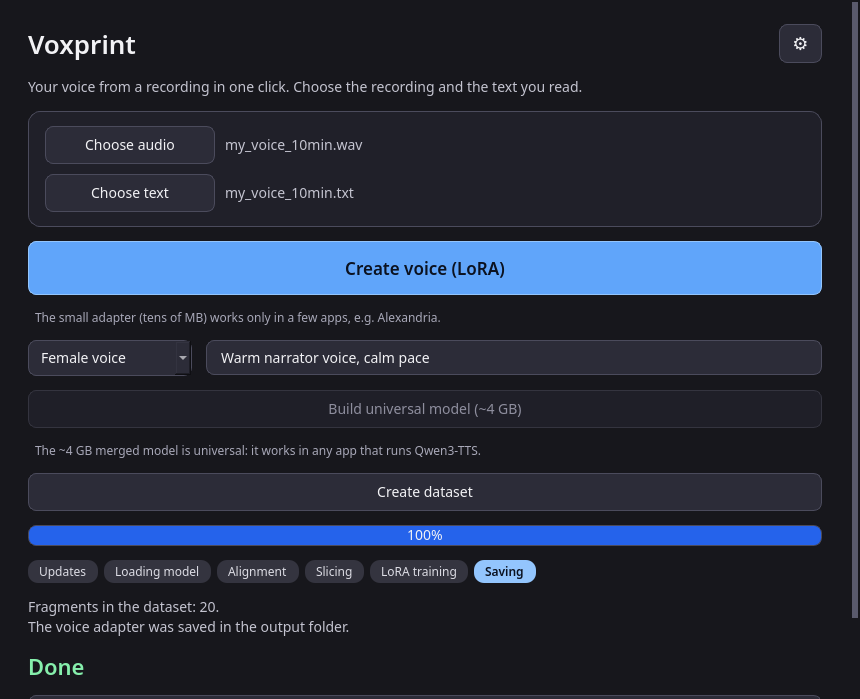
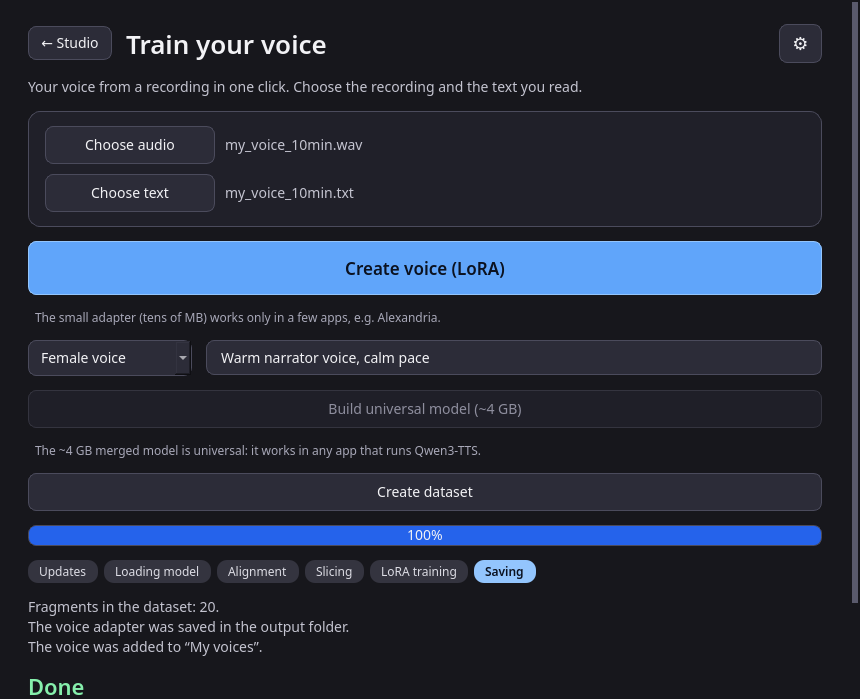
Docs and screenshots: Studio, voice library, narrator, formats, AAC notice and flag; regenerated screenshots (en/ru/de)

Changed region(s): [[0.0302, 0.9013, 0.9674, 1.0], [0.0302, 0.03, 0.393, 0.0901]]

diff --git a/README.md b/README.md
@@ -1,11 +1,14 @@
-# Voxprint
+# Voxprint AI Audiobook Builder
 
-**Your voice from a recording in one click.** Give Voxprint a 5-15 minute recording of your own voice and the text you read:
-it aligns the text to the audio, cuts a training dataset, trains your voice as a LoRA adapter for
-[Qwen3-TTS](https://github.com/QwenLM/Qwen3-TTS) and, if you want, merges it into a standalone model that works in any
-app that runs Qwen3-TTS. A native Windows 11 window - no command line, no browser, no Gradio, no WSL.
+*Train a voice, narrate books.* (Short name and technical identifier: **Voxprint** - the package, the executable and the data folder keep that name.)
 
-<p align="center"><img src="docs/screenshots/main_files_chosen.png" alt="Voxprint main window" width="720"></p>
+**Your voice from a recording in one click - and then whole books in that voice.** Give Voxprint a 5-15 minute recording of your own voice and
+the text you read: it aligns the text to the audio, cuts a training dataset and trains your voice as a LoRA adapter for
+[Qwen3-TTS](https://github.com/QwenLM/Qwen3-TTS) (optionally merged into a standalone model for any app that runs Qwen3-TTS).
+The voice goes into your **voice library**; then pick a book (TXT, FB2, EPUB) and a voice and get a finished audiobook with chapters
+(one Opus file, per-chapter MP3, ...). A native Windows 11 application - no command line, no browser, no Gradio, no WSL.
+
+<p align="center"><img src="docs/screenshots/studio_home.png" alt="Voxprint Studio" width="560"></p>
 
 > **Requires Windows 11 (24H2 / build 26100 or newer) and an NVIDIA GPU (16 GB VRAM recommended).**
 > Without an NVIDIA GPU the dataset is still created, but voice training falls back to the CPU (very slow, with a warning).
@@ -17,7 +20,8 @@ app that runs Qwen3-TTS. A native Windows 11 window - no command line, no browse
 
 ## Contents
 [Concept](#concept-and-philosophy) · [Features](#features) · [Screenshots](#screenshots) · [Installation](#installation) ·
-[Using Voxprint](#using-voxprint) · [How it works](#how-it-works) · [Output format](#output-format) ·
+[Using Voxprint](#using-voxprint) · [Narrate a book](#narrate-a-book) · [My voices](#my-voices-and-licences) · [AAC / M4B notice](#aac--m4b-patents-please-read) ·
+[How it works](#how-it-works) · [Output format](#output-format) ·
 [Hardware requirements](#hardware-requirements) · [Model reuse](#reusing-what-is-already-on-your-computer) ·
 [Tested on Windows](#tested-on-windows) · [Privacy](#privacy) · [Roadmap](#roadmap) · [Contributing](#contributing) ·
 [Licences](#licences-and-third-party-components)
@@ -37,6 +41,14 @@ voice recording and a text file to ready output files you can load into a neural
 * **Windows first**, other platforms later. Built jointly by a human and an AI - an honest attempt.
 
 ## Features
+* **Studio** - the first window: three big cards (*Narrate a book*, *Train your voice*, *My voices*) and a gear button for Settings. Every other window has a *← Studio* button.
+* **Narrate a book** - TXT / FB2 (also `.fb2.zip`) / EPUB parsing with chapters (pure standard library), sentence-sized chunks, synthesis
+  chunk by chunk with your voice (Qwen3-TTS + LoRA adapter), progress and time left, **pause / cancel / resume** (finished chunks are kept on disk).
+* **Audiobook formats** - default: **one `.opus` file with chapter markers**; **MP3 per chapter** (most compatible, ID3 tags + `.m3u8`); opt-in **M4B (AAC)** for Apple Books
+  (patent notice below); more under *Other formats and quality* (M4B with Opus, Opus/FLAC/WAV per chapter, one MP3 with chapter marks) and bitrate settings.
+* **Voice library** (`%LOCALAPPDATA%\Voxprint\voices\`) - every trained voice is registered automatically; preview, licence badge, delete, **import** from a folder or a zip,
+  and **download voices from a repository** (index URL is configurable; SHA-256 checked).
+* **Voice licences** - each voice carries a licence (CC0, CC-BY, CC-BY-SA, CC-BY-NC, CC-BY-NC-SA or custom/personal-only) and the UI shows whether *commercial use* is allowed.
 * Forced alignment of your text onto the recording with `Qwen/Qwen3-ForcedAligner-0.6B` (+ optional CTC backup aligner);
   long recordings are cut at pauses and aligned in chunks.
 * Automatic **dataset in the Alexandria `train_lora.py` format**: 3-12 s clips cut at pauses (never mid-word), a clean reference
@@ -45,14 +57,27 @@ voice recording and a text file to ready output files you can load into a neural
 * **LoRA voice training** with the Alexandria recipe (r=32, alpha=128 on the talker), parameters chosen from your VRAM
   (1.7B or 0.6B base, 8-bit Adam, CPU fallback, automatic retry plan after out-of-memory).
 * Optional **universal model** (~4 GB, `custom_voice` format) merged from the adapter - works in any Qwen3-TTS app.
-* **`voice.json`** next to the adapter: voice name, language, creation date, speech duration, epochs, base model and (optional) voice type and description.
+* **`voice.json`** next to the adapter (schema 2): id, name, language, creation date, speech duration, epochs, base model, author, licence (+ URL), voice type, description and the derived `commercial_use`.
 * **Settings** dialog (gear): language (English, Deutsch, Русский), update check, model/data folders, repair, About.
 * Scrollable window that stays usable on small screens (e.g. 1366x768 at 150% scaling).
 * Safe self-maintenance: verified-version updates with staging + smoke test + rollback, a repair command, a completion manifest.
 * Acrylic (glass) look on Windows 11 with a dark, high-contrast (WCAG AA) theme and a plain fallback.
 
 ## Screenshots
-All screenshots are English-UI renders of the current theme (offscreen Qt; see `docs/screenshots/`).
+All screenshots are English-UI renders of the current theme (offscreen Qt; see `docs/screenshots/`; Russian and German renders are in `docs/screenshots/ru/` and `docs/screenshots/de/`).
+
+| Studio (no voices yet) | Studio | My voices |
+|---|---|---|
+| <img src="docs/screenshots/studio_empty.png" width="300"> | <img src="docs/screenshots/studio_home.png" width="300"> | <img src="docs/screenshots/voices.png" width="300"> |
+
+| Narrate a book | Formats, AAC notice, quality | Narration running |
+|---|---|---|
+| <img src="docs/screenshots/narrate.png" width="300"> | <img src="docs/screenshots/narrate_aac.png" width="300"> | <img src="docs/screenshots/narrate_running.png" width="300"> |
+
+Same windows in Russian and German: [`ru/studio_home`](docs/screenshots/ru/studio_home.png), [`ru/voices`](docs/screenshots/ru/voices.png), [`ru/narrate_aac`](docs/screenshots/ru/narrate_aac.png),
+[`de/studio_home`](docs/screenshots/de/studio_home.png), [`de/voices`](docs/screenshots/de/voices.png), [`de/narrate_aac`](docs/screenshots/de/narrate_aac.png).
+
+Training window ("Train your voice"):
 
 | Choose files | Running | Done |
 |---|---|---|
@@ -103,6 +128,10 @@ App data lives in `%LOCALAPPDATA%\Voxprint` (`models\`, `logs\`, `state\`, ...; 
 Interface language override: `VOXPRINT_LANG=en|de|ru`.
 
 ## Using Voxprint
+Start the program: the **Studio** opens. *Narrate a book* is the main card; if the library has no voices yet it says so and points to *Train your voice* / *My voices*.
+Use **← Studio** in any window to come back; the gear (top right) opens Settings.
+
+### Train your voice
 1. Press **Choose audio** and **Choose text** (or drag the files into the window). The text is a UTF-8 `.txt` of what you read.
 2. Optional, under the main button: pick a **voice type** (male / female / child / other) and type a short **description** - both are saved in `voice.json`.
 3. Press **Create voice (LoRA)** - everything else is automatic. When it finishes, the folder opens:
@@ -111,10 +140,63 @@ Interface language override: `VOXPRINT_LANG=en|de|ru`.
 4. Optional: **Build universal model (~4 GB)** merges the trained adapter into a standalone model in `...\output\<voice name>\merged_model`
    (Qwen3-TTS `custom_voice` format; the voice is `speaker=<voice name>`). The small adapter works only in a few apps (e.g. Alexandria);
    the merged model works in any app that runs Qwen3-TTS. Voxprint checks the free disk space and asks for confirmation first; the big model is never built automatically.
-5. The **gear** button opens **Settings**: language, *Check for updates* (also checked weekly in the background), open the models / data & log folders,
+5. When training finishes the voice is **registered in the library** automatically (status line "voice registered"; if that fails you get a warning, the adapter folder is still there).
+6. The **gear** button opens **Settings**: language, *Check for updates* (also checked weekly in the background), open the models / data & log folders,
    *Repair the installation*, and *About* (help, authors, open-source components with their licences, third-party notices).
 
 Use only your own voice (or the voice of someone who explicitly agreed).
+
+### Narrate a book
+1. **Choose book…**: `.txt` (UTF-8 / cp1251; headings like "Chapter 1", "Глава 2", "Part I" become chapters), `.fb2` / `.fb2.zip`, `.epub`. The book title, author and cover are read when present.
+2. Pick the **voice** (a licence badge is shown; for a personal-use-only voice you are reminded not to publish or sell the narration). No voices yet? The window offers *Train your voice* / *My voices*.
+3. Pick the **format** (see below), optionally the output folder (default `Documents\Voxprint\Audiobooks`) and whether chapter titles are read aloud, then **Start narration**.
+4. Progress with the time left; **Pause / Resume** and **Cancel** are always available. Every synthesized fragment is stored (`<output>\<book>\.cache`), so after a cancel, a crash or closing the program
+   **Start continues where it stopped**; the cache is deleted after a successful run. Texts are split into chunks at sentence/clause boundaries (reusing the clause splitter of the aligner), chapters get a pause between them.
+
+| Format | What you get | Where it plays |
+|---|---|---|
+| **Opus, one file** (default) | `Author - Title.opus` with chapter markers (32 kbit/s mono), open and royalty-free, small | VLC, Audiobookshelf, Voice (Android), Smart AudioBook Player and other free players; chapter support varies by player |
+| **MP3, one file per chapter** | folder `... - MP3\NN - Chapter.mp3` + `.m3u8` playlist, ID3 tags (title, album, artist, track n/N, cover); 96 kbit/s mono | practically everything (old players, car radios, phones) |
+| **M4B (AAC)** - opt-in, [see the notice](#aac--m4b-patents-please-read) | `Author - Title.m4b` with chapters, 64 kbit/s mono | Apple Books (iPhone/Mac) and most audiobook apps |
+| *Other formats and quality* | M4B with Opus audio, Opus per chapter, one MP3 with chapter marks (ID3 CHAP frames), FLAC / WAV per chapter; bitrate spin boxes | - |
+
+Extension points (not implemented, shown as a "coming later" line): text clean-up, translation and multi-voice roles plug into `NarrationOptions.preprocessors` (`core/narration.py`).
+
+### My voices and licences
+*My voices* lists the library as cards: name, language, length of speech, epochs, voice type, author, a **licence badge** (green: commercial use allowed, amber: personal use only), **Preview** (plays the reference sample),
+*Narrate with this voice*, *Details…* (edit name, author, licence, description) and *Delete* (asks first). **Import voice…** accepts an adapter folder or a `.zip` (archives are checked: no path tricks, only the
+adapter files, size limits). A voice without a declared licence is treated as `custom/personal-only`.
+
+| Licence | Commercial use |
+|---|---|
+| CC0-1.0, CC-BY-4.0, CC-BY-SA-4.0 | allowed (attribution / share-alike per the licence) |
+| CC-BY-NC-4.0, CC-BY-NC-SA-4.0 | not allowed |
+| custom/personal-only (default) | not allowed |
+
+`commercial_use` in `voice.json` is always derived from the licence, never trusted from a file you import. The badge is information, not legal advice.
+
+**Download voices from repository.** The button reads a static `index.json` (schema 1) from a configurable URL: environment variable `VOXPRINT_VOICES_INDEX`, or the first line of
+`%LOCALAPPDATA%\Voxprint\state\voice_index_url.txt`. The built-in default is a placeholder (`.../OWNER/voxprint-voices/...`): until a real repository exists the dialog says "not set up yet". An empty list and no network
+are handled with friendly messages. Downloads are HTTPS-only, size-capped, the SHA-256 from the index must match, and the licence in the index is the one shown. Index format:
+```json
+{"schema": 1, "voices": [{"id": "anna-ru", "name": "Anna", "language": "russian", "author": "...", "license": "CC-BY-4.0",
+  "description": "...", "voice_type": "female", "base_model": "Qwen/Qwen3-TTS-12Hz-1.7B-Base",
+  "url": "https://example.org/anna-ru.zip", "sha256": "<64 hex digits>", "size_bytes": 61000000}]}
+```
+
+### AAC / M4B: patents (please read)
+> The **M4B (AAC)** export exists only as a convenience for **Apple Books compatibility**. The **AAC codec is patent-encumbered** and not fully open. **This project does not provide a patent licence** for it.
+> **You are solely responsible for any legal compliance** (patent licensing, royalties, distribution rules that apply to you) when you choose this format. The default formats (Opus, MP3 per chapter, FLAC, WAV) are not affected.
+
+The same text (localized into English, Russian and German) is shown in the program when M4B is selected, and in [`THIRD_PARTY_NOTICES.md`](THIRD_PARTY_NOTICES.md).
+
+**Hide or disable AAC.** One switch, three ways (highest priority first):
+* environment variable `VOXPRINT_ENABLE_AAC=0` (`1` forces it on);
+* `%LOCALAPPDATA%\Voxprint\state\features.json` containing `{"aac_m4b": false}`;
+* the default `AAC_DEFAULT` in `infra/features.py` (a distributor can set it to `False`).
+
+When disabled the M4B entry disappears from the window and the narrator refuses to produce M4B/AAC even if asked programmatically. The encoders themselves (`aac`, `libopus`, `libmp3lame`) come from the ffmpeg build in use; the export checks for them
+before synthesis starts and stops with a clear message if one is missing (whether the pinned ffmpeg build contains all three has **not** been verified yet).
 
 ## How it works
 ```
@@ -133,6 +215,8 @@ Use only your own voice (or the voice of someone who explicitly agreed).
                                                                               ▼
                                                                    merged "universal" model (~4 GB)
 ```
+Narration: `book → chapters → chunks → (cache hit or Qwen3-TTS + adapter) → WAV with pauses per chapter → ffmpeg → .opus / .mp3 / .m4b ...`
+(`core/book_parsers.py`, `core/chunker.py`, `core/narration.py`, `core/tts_engine.py`, `core/audiobook_export.py`).
 Heavy work runs in background threads (`workers/`); the UI only reacts to progress signals. Before anything else a quiet weekly update
 check runs (it never changes components in *your* environment without asking). See [`docs/ARCHITECTURE.md`](docs/ARCHITECTURE.md) for the module map and data flow.
 
@@ -153,13 +237,19 @@ output\<voice name>\  adapter_model.safetensors, adapter_config.json, ref_sample
           tts_model_type=custom_voice + talker_config.spk_id, speech_tokenizer\, ref_sample.wav, ref_text.txt,
           speaker_embedding.safetensors, voxprint_voice.json, USAGE.txt)
 ```
-`voice.json` (schema 1) example:
+`voice.json` (schema 2) example:
 ```json
-{"schema": 1, "voice_name": "my_voice", "language": "russian", "created": "2026-10-03T12:00:00Z",
- "speech_seconds": 412.7, "epochs": 15, "base_model": "Qwen/Qwen3-TTS-12Hz-1.7B-Base",
- "voice_type": "female", "description": "Warm narrator voice, calm pace"}
+{"schema": 2, "id": "my-voice", "name": "My voice", "language": "russian", "created": "2026-10-03T12:00:00Z",
+ "duration": 412.7, "epochs": 15, "base_model": "Qwen/Qwen3-TTS-12Hz-1.7B-Base", "author": "Aleksandr",
+ "license": "custom/personal-only", "license_url": "", "voice_type": "female",
+ "description": "Warm narrator voice, calm pace", "commercial_use": false}
 ```
-`voice_type` (`male|female|child|other`) and `description` (whitespace collapsed, ≤ 500 characters) are optional: when you leave them empty they are written as empty strings. The other fields are filled in automatically.
+`voice_type` (`male|female|child|other`) and `description` (whitespace collapsed, ≤ 500 characters) are optional (empty strings when unset). `license` is an SPDX-like id (see the table above; default
+`custom/personal-only`), `license_url` is filled for the known licences, and `commercial_use` is **derived** from the licence. Schema-1 files (`voice_name`, `speech_seconds`) are migrated when read.
+Library layout: `%LOCALAPPDATA%\Voxprint\voices\<id>\` = `adapter_model.safetensors`, `adapter_config.json`, `ref_sample.wav`, `training_meta.json`, `voice.json`.
+
+Audiobook output: `<output>\<Book title>\` with the chosen files (`Author - Title.opus` / `.m4b` / `.mp3`, or folders `... - MP3`, `... - Opus`, `... - FLAC`, `... - WAV` with `NN - Chapter` files and a `.m3u8`);
+the resumable chunk cache lives in `.cache\` and temporary files in `.work\` inside that folder and are removed after success.
 
 Using the merged model: `Qwen3TTSModel.from_pretrained(folder).generate_custom_voice(text, language="Russian", speaker="<voice name>")`.
 
@@ -236,14 +326,15 @@ The Linux test-suite (`QT_QPA_PLATFORM=offscreen python -m pytest`) covers the p
 ## Privacy
 **Use only your own voice, or the voice of someone who explicitly agreed.** Recordings, text and the finished voice stay on your computer.
 Voxprint sends nothing to the internet except: downloading models (Hugging Face, or the ModelScope mirror), checking PyPI / the Hugging Face API for
-updates, and (only if you accept an offer) installing packages. There is no telemetry and no account. A notice is shown on first start and a reminder
+updates, the voice repository (only when you open *Download voices from repository*, and only the index and the voices you pick), and (only if you accept an offer) installing packages. There is no telemetry and no account. A notice is shown on first start and a reminder
 sits at the bottom of the window. Logs (`%LOCALAPPDATA%\Voxprint\logs`) stay local too.
 
 ## Roadmap
 Ideas, not promises:
-* **Audiobook Studio** - a second module that uses your trained voice to read whole books (chapters, queue, export to common audio formats).
-* **Translation** - translate a text and speak it in your own voice in another language.
-* **Multi-voice markup** - mark up a text with several speakers / voices and render them in one pass.
+* **Narrator improvements** - a queue of several books, text clean-up (footnotes, headers), more book formats (e.g. PDF, DOCX).
+* **Translation** - translate a text and speak it in your own voice in another language (extension point exists, not implemented).
+* **Multi-voice markup** - mark up a text with several speakers / voices and render them in one pass (extension point exists, not implemented).
+* A real **voices repository** (the index URL in the program is a placeholder today).
 * **Android** - later: convert the merged model for phones (GGUF / LiteRT; today the merged folder is a plain Hugging Face directory a converter can start from).
 * **Installer channels** - *online* (small installer, downloads components), *offline* (everything included), and *beta* (pre-releases).
 * English and German installer wizard texts (the current Inno Setup wizard is Russian-only), a public repository URL and a published licence for the Voxprint source code.
@@ -256,7 +347,7 @@ Contributions are welcome - see [`CONTRIBUTING.md`](CONTRIBUTING.md) (setup, tes
 python -m venv .venv && . .venv/bin/activate        # Linux: enough to run the tests
 pip install -r requirements.txt -r requirements-verified.txt -r requirements-dev.txt
 pip install --no-deps -r requirements-nodeps.txt
-QT_QPA_PLATFORM=offscreen python -m pytest          # ~250 tests, no GPU, no network
+QT_QPA_PLATFORM=offscreen python -m pytest          # ~350 tests, no GPU, no network
 python -m core.cli audio.wav text.txt --out dataset --fake-aligner     # dry run of the pipeline without a neural network
 ```
 CLI for stage-by-stage checks on a GPU machine: `python -m core.cli audio.wav text.txt --out dataset [--language Russian] [--device cuda] [--train --output-dir output]`.
@@ -297,6 +388,8 @@ before the first public release. Important points:
 * **FFmpeg is a GPL-3.0 build.** The ffmpeg binary inside the `imageio-ffmpeg` wheel was built with `--enable-gpl --enable-version3` (verified in the Windows 7.1 binary of
   imageio-ffmpeg 0.6.0). It is a separate executable started as a subprocess, but you are distributing a GPL binary: keep `licenses\gpl-3.0.txt` and the source link,
   or ship an LGPL ffmpeg build / require ffmpeg on `PATH`.
+* **AAC (M4B) is patent-encumbered.** Voxprint provides no patent licence for it; the option is a convenience for Apple Books, is off by default, carries a disclaimer and can be disabled completely (see
+  [AAC / M4B](#aac--m4b-patents-please-read)). The same notice is in `THIRD_PARTY_NOTICES.md`.
 * **soynlp (GPLv3) is excluded.** `qwen-asr` imports it lazily, only for Korean. It is not in `requirements.txt` and the build excludes it (`--exclude-module soynlp`),
   so **Korean alignment is unavailable**.
 * **CC-BY-NC-4.0 model.** The optional backup aligner model `MahmoudAshraf/mms-300m-1130-forced-aligner` (used only if you install the optional `ctc-forced-aligner`) is
@@ -320,6 +413,9 @@ before the first public release. Important points:
   torch flavor mapping, completion manifest + reason codes, pinned-asset installer (sha256, staging, smoke test, rollback).
 
 ## Still to verify (TODO-needs-GPU-test)
+* **The narrator on real hardware.** `core/tts_engine.py` (loading Qwen3-TTS with the LoRA adapter and `generate_voice_clone`) is written against the qwen-tts API but has **never run on a GPU**; everything around it (parsers, chunker, cache/resume,
+  assembly, ffmpeg command lines, UI) is tested with a fake engine and a fake ffmpeg. Also untested: the real encoders in the pinned ffmpeg build (`libopus`, `libmp3lame`, `aac`, MP4 with Opus, Opus chapter markers, ID3 CHAP frames),
+  preview playback (QtMultimedia) on Windows, how chapters show up in the listed players, and the Studio/Acrylic look on a real desktop.
 * Reuse against a **real** Alexandria/Pinokio install on Windows; a real ModelScope download after the certificate fix; the pinned LGPL ffmpeg download and swap on Windows (file locking).
 * Alignment quality/speed and the `align_long` and quality-filter thresholds on real (non-synthetic, non-English) recordings.
 * Training thresholds (loss 3.5, lr 1e-6...2e-6) for **Russian**; reading the adapter in Alexandria with its pinned `peft==0.18.1`; the optional `ctc-forced-aligner`.

diff --git a/docs/ARCHITECTURE.md b/docs/ARCHITECTURE.md
@@ -35,12 +35,20 @@ Dependencies point downwards: `ui -> workers -> core / infra`; `core` never impo
 | `teacher_forcing.py`, `lora_trainer.py` | teacher-forced input construction; LoRA training of Qwen3-TTS-12Hz-Base (adapter, `training_meta.json`) |
 | `model_export.py` | merged "universal" model (`merge_and_unload`) |
 | `model_locator.py` | finds models downloaded by other apps (Hugging Face cache, Pinokio/Alexandria, ModelScope) - read-only |
-| `voice_info.py` | `voice.json`: schema, voice types, description cleanup, read/write |
+| `voice_info.py` | `voice.json` (schema 2): fields, voice types, **licences** (`LICENSES`, `license_allows_commercial`, derived `commercial_use`), migration of schema 1, read/write |
+| `voice_library.py` | the voice library under `voices/<id>/`: `VoiceLibrary`, `VoiceRecord`, register / import (folder, hardened zip) / update / delete / list |
+| `book_parsers.py` | TXT (heading detection), FB2 (+ `.fb2.zip`, entity guard, cover), EPUB (nav / NCX / spine) -> `Book` / `Chapter`; stdlib only |
+| `chunker.py` | chapter text -> sentence-sized chunks (reuses the clause splitter), pause lengths |
+| `narration.py` | `narrate_book`: `TTSEngine` protocol, `ChunkCache` (atomic per-chunk FLAC, key = sha256(engine tag + text)), `synthesize_chunks` (lazy engine, retry, ETA), `assemble_chapters`, `PauseToken`, `NarrationOptions` (formats, bitrates, `allow_aac`, `preprocessors`) |
+| `tts_engine.py` | the real engine `Qwen3AdapterEngine` (qwen-tts + PEFT adapter, voice-clone prompt from `ref_sample.wav`) - **not yet run on a GPU** |
+| `audiobook_export.py` | format registry, file naming, `ffmetadata` chapters, `.m3u8`, ffmpeg command builders, encoder pre-check, `export_formats` (injectable `run`) |
 
 ### `infra/`
 | Module | Purpose |
 |---|---|
-| `paths.py` | application folders (`%LOCALAPPDATA%\Voxprint`, override `VOXPRINT_HOME`): `models/`, `packages/`, `state/`, `logs/`, `.staging/` |
+| `paths.py` | application folders (`%LOCALAPPDATA%\Voxprint`, override `VOXPRINT_HOME`): `models/`, `packages/`, `voices/`, `state/`, `logs/`, `.staging/` |
+| `voice_repository.py` | online voice index (`index.json`, URL configurable, placeholder default) and verified downloads (HTTPS, size cap, SHA-256); never raises to the UI |
+| `features.py` | feature flags; today `aac_enabled()` (env `VOXPRINT_ENABLE_AAC` > `state/features.json` > `AAC_DEFAULT`) |
 | `net.py` | HTTPS through the stdlib; retries with certifi roots on `CERTIFICATE_VERIFY_FAILED` |
 | `platform_win.py` | OS check, dark title bar, Acrylic backdrop (all guarded by `sys.platform`) |
 | `assets.py` | pinned non-pip assets (ffmpeg): download -> sha256 -> staging -> smoke test -> atomic swap -> rollback; ownership marker `.voxprint-owned` |
@@ -54,9 +62,12 @@ Dependencies point downwards: `ui -> workers -> core / infra`; `core` never impo
 ### `workers/`
 `pipeline_runner.py` holds the Qt-free scenarios ("dataset", "voice (LoRA)", "universal model", first-run prefetch) with injectable collaborators;
 `process_worker.py` wraps them in `QThread` workers whose only interface to the UI is signals (`progress`, `finished`, `failed`, `cancelled`).
+`narration_runner.py` (`NarrationJob`, `run_narration`, `format_eta`) is the Qt-free narrator scenario; `narrate_worker.py` has `NarrateWorker` (narration with pause / cancel) and the repository workers
+(`RepoIndexWorker`, `RepoDownloadWorker`). Training registers the finished voice in the library (`pipeline_runner._register_voice`, `TaskResult.voice_id`).
 
 ### `ui/`
-`main_window.py` (core workflow + theme), `settings_dialog.py` (gear), `about_dialog.py`, `upgrade_dialog.py`.
+`studio.py` (**`StudioWindow`**: the first window, owns the other three), `main_window.py` (the *Train your voice* window + theme constants), `voices_window.py` (*My voices*, voice cards, edit dialog, repository dialog),
+`narrate_window.py` (*Narrate a book*), `window_base.py` (`SubWindow`: backdrop, back button / gear, common cards), `audio_preview.py` (QtMultimedia `Previewer`), `settings_dialog.py` (gear), `about_dialog.py`, `upgrade_dialog.py`.
 
 ## 3. Data flow of voice training
 ```
@@ -77,6 +88,17 @@ model_export                            merged universal model with the voice as
 Every stage reports `(stage, fraction, message)` through the progress callback and polls the cancellation token between units of work; a cancelled run leaves no half-written
 result in the output folder.
 
+## 3a. Data flow of narration
+```
+book file --book_parsers.load_book--> Book(chapters) --chunker.chunk_book--> chunks (sentence-sized, per chapter)
+   narration.synthesize_chunks: for each chunk  cache hit?  yes -> reuse   no -> TTSEngine.synthesize (Qwen3AdapterEngine: base model + voice adapter + reference clip) -> ChunkCache (atomic FLAC)
+   narration.assemble_chapters: stream chunks into one WAV per chapter, pauses between sentences / paragraphs, a tail after each chapter
+   audiobook_export.export_formats: ffmpeg  ->  .opus (chapters in ffmetadata)  /  per-chapter .mp3 + .m3u8  /  .m4b (AAC, only if allowed)  / ...
+```
+The job folder is `<output>/<book>/` with `.cache/` (chunks) and `.work/` (temporary WAVs); both are removed after success unless `keep_cache` is set. Start after a cancel / crash simply finds the cached chunks again.
+Pause is a `PauseToken` polled between chunks; cancel uses the usual `CancelToken`. Before synthesis the needed ffmpeg encoders are checked so a missing `libopus` / `libmp3lame` / `aac` fails in seconds, not after hours.
+Extension points: `NarrationOptions.preprocessors` (functions applied to each chunk's text - clean-up / translation) and the engine protocol (a different TTS can be injected; the tests use a fake one).
+
 ## 4. Installation, environment and updates
 * **Installer** (Inno Setup, per user) installs the PyInstaller `onedir` build and runs the first-start setup: environment probe, optional Python venv with the right torch build
   (`uv`), model download. Everything is recorded in the **completion manifest** (`state/`); `main.py --verify-install` re-checks it and prints stable reason codes; `--repair` rebuilds the venv.
@@ -89,10 +111,15 @@ result in the output folder.
 
 ## 5. Threading
 The UI thread never blocks. A `QThread` worker runs a runner scenario; progress/finish/failure/cancel arrive as signals. Cancellation is cooperative (a token, see `core/events.py`);
-the main window disables the controls that must not change while a worker runs (including the UI language switch).
+the training window disables the controls that must not change while a worker runs. The Studio treats "training or narration is running" as busy: the language switch is refused meanwhile and the window titles/cards show it.
+Narration and the repository dialog use their own `QThread`s (`workers/narrate_worker.py`); `StudioWindow.shutdown()` (connected to `aboutToQuit`) cancels all of them and waits.
 
 ## 6. UI structure and theme
-* The main window contains the core workflow only: choose audio + text, optional voice name / type / description, one button, progress and result. Everything else lives in the
+* **Studio navigation.** `StudioWindow` is the first window. The other three windows (`MainWindow` = *Train your voice*, `VoicesWindow`, `NarrateWindow`) are separate top-level windows shown **one at a time**:
+  `StudioWindow.navigate(page)` hides the current one and shows the target (geometry is carried over), every sub-window has a *← Studio* button (signal `go("studio")`), and the narrator / voices windows can jump to each other
+  (*Train your voice*, *Narrate with this voice*). The trainer window is the former main window, reused unchanged except for the back button; the Studio mirrors its status and progress on the home page, and the settings
+  dialog (gear) is shared. Closing any window closes the application (`shutdown()`). A 1-second timer refreshes the home cards (voice count, "no voices yet" hint).
+* The training window contains the core workflow only: choose audio + text, optional voice name / type / description, one button, progress and result. Everything else lives in the
   **Settings dialog** behind the gear button: language, updates, model and data folders, repair, About. The whole content sits in a scroll area, so the window fits small screens.
 * Windows 11 gets an Acrylic backdrop (`platform_win`) under a **strong dark tint**; panels and controls are solid and all text colours are opaque. The palette constants
   (`TEXT`, `TEXT_MUTED`, `CARD_GLASS`, ...) and `CONTRAST_PAIRS` live at the top of `ui/main_window.py`; `tests/test_ui.py::test_theme_contrast` checks WCAG AA (>= 4.5:1),
@@ -100,21 +127,31 @@ the main window disables the controls that must not change while a worker runs (
 * All text goes through `tr()`; changing the language retranslates live.
 
 ## 7. File formats
-**Adapter folder** (output of training): `adapter_model.safetensors`, `adapter_config.json`, `training_meta.json`, `voice.json`.
+**Adapter folder** (output of training): `adapter_model.safetensors`, `adapter_config.json`, `ref_sample.wav` (+ text in `training_meta.json`, used as the voice reference), `training_meta.json`, `voice.json`.
 
-**`voice.json`** (`core/voice_info.py`, `VOICE_SCHEMA = 1`):
+**`voice.json`** (`core/voice_info.py`, `VOICE_SCHEMA = 2`):
 ```json
 {
-  "schema": 1, "voice_name": "...", "language": "Russian", "created": "2026-10-03T12:00:00Z",
-  "speech_seconds": 1543.2, "epochs": 5, "base_model": "Qwen/Qwen3-TTS-12Hz-1.7B-Base",
-  "voice_type": "", "description": ""
+  "schema": 2, "id": "anna", "name": "Anna", "language": "russian", "created": "2026-10-03T12:00:00Z",
+  "duration": 1543.2, "epochs": 5, "base_model": "Qwen/Qwen3-TTS-12Hz-1.7B-Base", "author": "",
+  "license": "custom/personal-only", "license_url": "", "voice_type": "", "description": "", "commercial_use": false
 }
 ```
-`voice_type` is `male | female | child | other` or empty; `description` has collapsed whitespace and at most 500 characters.
+`voice_type` is `male | female | child | other` or empty; `description` has collapsed whitespace and at most 500 characters. `license` is one of `LICENSES` (CC0-1.0, CC-BY-4.0, CC-BY-SA-4.0 allow commercial use;
+CC-BY-NC-4.0, CC-BY-NC-SA-4.0 and `custom/personal-only` do not); unknown or missing values become `custom/personal-only`. `commercial_use` is always recomputed from the licence when a file is read, so an imported file cannot
+claim more than its licence gives. Schema 1 (`voice_name`, `speech_seconds`) is migrated on read. **Library layout:** `voices/<id>/{adapter_model.safetensors, adapter_config.json, ref_sample.wav, training_meta.json, voice.json}`.
+
+**Repository index** (`infra/voice_repository.py`): `{"schema": 1, "voices": [{id, name, language, author, license, license_url, description, voice_type, base_model, url, sha256, size_bytes}]}`.
+
+**Audiobook output**: see README "Output format"; format keys and defaults are in `core/audiobook_export.py` (`DEFAULT_FORMATS = (opus_single,)`).
+
+**Feature flag**: `aac_m4b` in `state/features.json` / `VOXPRINT_ENABLE_AAC` (`infra/features.py`). AAC is patent-encumbered; see the notice in `THIRD_PARTY_NOTICES.md`.
 
 ## 8. Testing strategy
 * No test needs a GPU, a network connection or a model: aligners are replaced by `TrueRateAligner` (`tests/synth.py` synthesizes readings with a known ground truth),
   and network/process access is injected (`opener`, `run`, `which`, `runner`, `updater`).
 * `tests/conftest.py` isolates app-data folders and the language for every test.
 * `tests/test_i18n.py` guards the localization rules; `tests/test_credits.py` keeps `credits.json`, the notices and the installer in sync.
-* Windows-only behaviour (Acrylic, real GPU training) is verified manually - see the "Tested on Windows" section of the README.
+* The narrator is tested with a fake `TTSEngine` and a fake ffmpeg runner (`tests/test_narration.py`): chunk cache and resume, cancel / pause, ETA, chapter assembly, ffmetadata / m3u8 content, command lines, the AAC flag.
+  Parsers and the chunker: `tests/test_books.py`; the library, licences and repository: `tests/test_voice_*.py`; the windows (navigation, language switch, cards, formats, disclaimer, run / pause / cancel): `tests/test_studio.py`.
+* Windows-only behaviour (Acrylic, real GPU training, the real Qwen3-TTS engine, the real ffmpeg encoders) is verified manually - see the "Tested on Windows" section of the README.

diff --git a/CHANGELOG.md b/CHANGELOG.md
@@ -6,6 +6,15 @@ The project is not released yet; everything below is the history of the 0.1.0 de
 ## [Unreleased]
 
 ### Added
+- **Studio** - new home window with three cards (*Narrate a book*, *Train your voice*, *My voices*) and the gear; every sub-window has a *← Studio* button; language changes apply to all windows.
+- **Voice library** (`%LOCALAPPDATA%\Voxprint\voices\<id>\`): trained voices are registered automatically; *My voices* with licence badge, preview, details, delete, import from folder / zip (hardened), and
+  *Download voices from repository* (configurable index URL, placeholder by default, SHA-256 verified).
+- **`voice.json` schema 2**: id, name, author, licence (+ URL), derived `commercial_use`; schema-1 files are migrated. Licence logic in `core/voice_info.py`.
+- **Narrate a book**: TXT / FB2 / EPUB parsers (standard library only), chapters, sentence chunks, resumable chunk-by-chunk synthesis with a Qwen3-TTS voice adapter (`core/tts_engine.py`, not yet run on a GPU),
+  progress with ETA, pause / cancel, exports through ffmpeg: Opus with chapters (default), MP3 per chapter, M4B (AAC) opt-in, plus M4B-Opus, Opus / FLAC / WAV per chapter, one MP3 with chapter marks, bitrate settings.
+- **AAC / M4B patent notice** (UI in en / ru / de, README, `THIRD_PARTY_NOTICES.md`) and a feature flag to hide / disable the option (`VOXPRINT_ENABLE_AAC`, `state/features.json`, `infra/features.py`).
+- Extension points (not implemented) for text clean-up, translation and multi-voice roles: `NarrationOptions.preprocessors` and a "coming later" line.
+- New docs screenshots: Studio, My voices, Narrate (incl. Russian and German renders).
 - **Settings dialog** behind a gear button: language, *Check for updates*, open models folder, open data & log folder, *Repair the installation*, *About*.
   The main screen keeps only the core workflow.
 - **Scroll area** around the whole main UI: the window is usable when the work area is shorter than the layout (e.g. 1366x768 at 150% scaling).
@@ -16,6 +25,8 @@ The project is not released yet; everything below is the history of the 0.1.0 de
 - Repository documentation in English: rewritten `README.md`, `CONTRIBUTING.md`, `docs/ARCHITECTURE.md`, this changelog, and English screenshots in `docs/screenshots/`.
 
 ### Changed
+- **Product name**: *Voxprint AI Audiobook Builder* (tagline "Train a voice, narrate books") in window titles, About, installer display name and docs. Technical names (`voxprint`, `Voxprint.exe`, `%LOCALAPPDATA%\Voxprint`) are unchanged.
+- The previous main window became the *Train your voice* window of the Studio (same workflow).
 - **Darker, more opaque theme**: strong dark tint over the Acrylic backdrop, solid panels and buttons, opaque text colours; the plain fallback uses the same palette.
 - All code comments and docstrings are English (UI strings stay localized in en / ru / de); comments in `build.bat`, the installer script and the requirements files are English too.
 - Repo docs no longer carry a Russian section; Russian-only development notes were translated or dropped.

diff --git a/CONTRIBUTING.md b/CONTRIBUTING.md
@@ -47,7 +47,7 @@ On Windows, never run `uv run` without `--no-sync` (it replaces CUDA torch with 
 
 ## Localization
 All user-visible text goes through `tr("some.key")` and lives in `locales/en.json`, `de.json`, `ru.json` (identical keys and `{placeholders}`, and every key used in code must exist - all enforced by `tests/test_i18n.py`, which also rejects Cyrillic string literals in code). New UI text therefore means three catalog entries. See "Adding a language" in the README.
-Russian *data* (abbreviation tables of the text normalizer, test fixtures) legitimately contains Cyrillic.
+Russian *data* (abbreviation tables of the text normalizer, the Russian heading words of `core/book_parsers.py`, test fixtures) legitimately contains Cyrillic; such modules are listed in the exception list of `tests/test_i18n.py`.
 
 ## Third-party components
 `credits.json` is the single source for the About dialog, `THIRD_PARTY_NOTICES.md` and the `licenses/` folder. After adding a dependency: add its entry (en/de/ru purpose,
